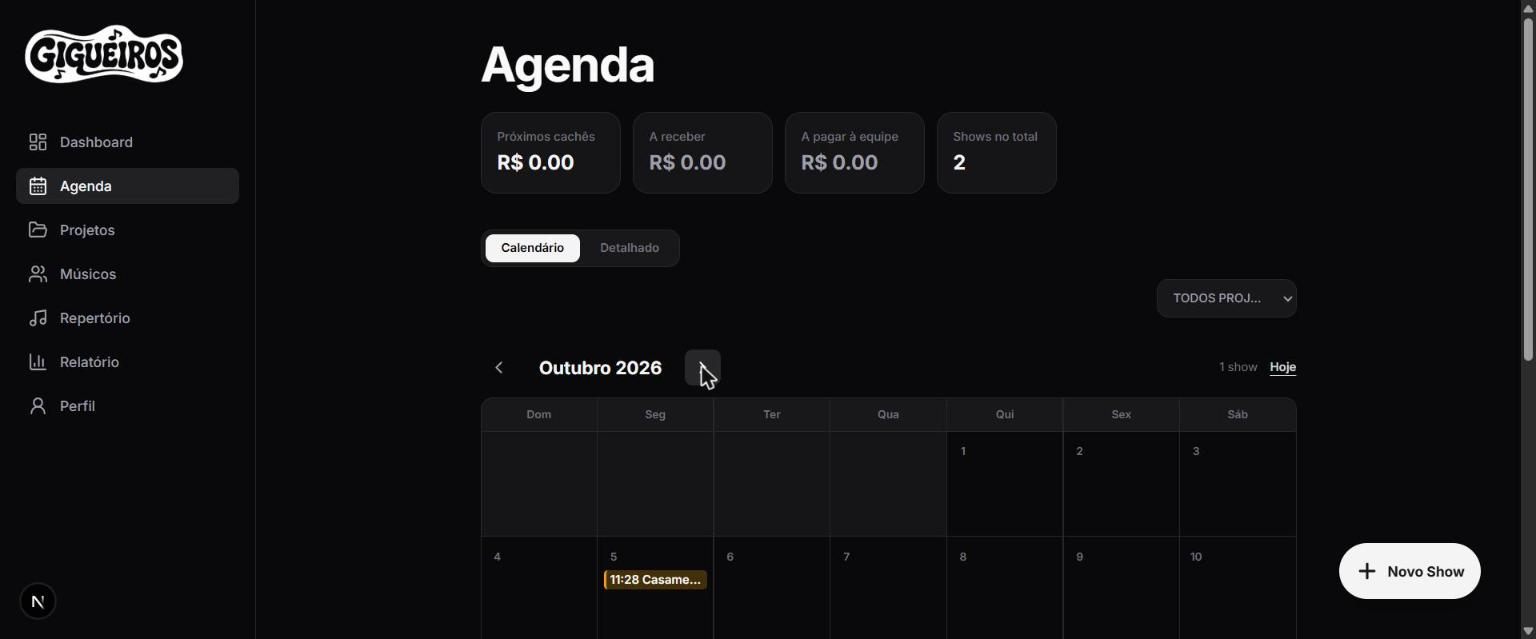
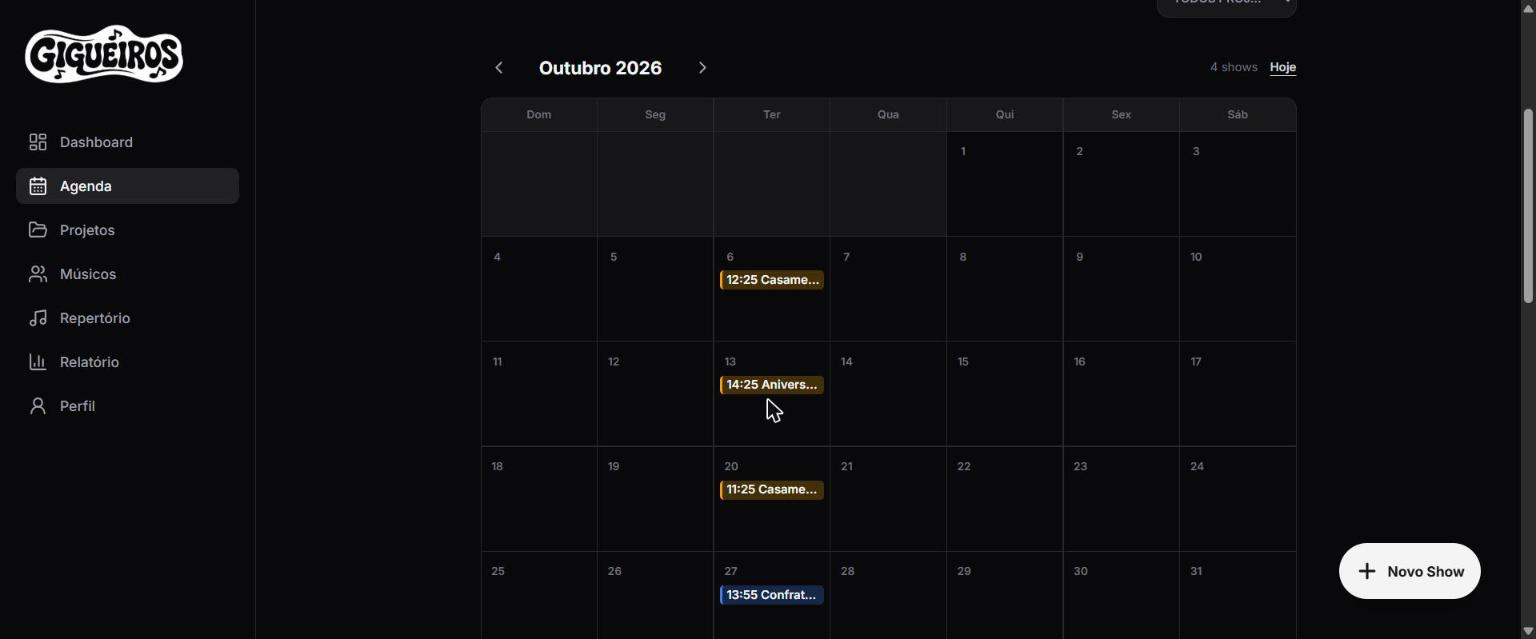
feat(lp): prints reais com molduras de dispositivo, lightbox e carrossel
- Dashboard em destaque com moldura de notebook/tablet/celular
  (componente DeviceChrome, CSS puro), mostrando responsividade e PWA.
- Qualquer print abre em tamanho grande num lightbox (clique, Esc ou
  clique fora fecha).
- Agenda, Financeiro, Repertório, Relatório e Músicos viram um carrossel
  automático com transição, que para no hover/clique e continua clicável.
- Prints recapturados com mais dados de exemplo (12 shows, 6 músicos,
  8 músicas) numa banda de teste renomeada, sem expor a conta real.

Claude-Session: https://claude.ai/code/session_01CZdo6RkE18fDUt6KDbb8QB

diff --git a/components/screenshot-lightbox.tsx b/components/screenshot-lightbox.tsx
@@ -1,0 +1,152 @@
+'use client';
+
+import { useEffect, useState } from 'react';
+import Image from 'next/image';
+import { X } from 'lucide-react';
+
+export type Shot = { src: string; alt: string; width: number; height: number; caption?: string };
+type Device = 'laptop' | 'tablet' | 'phone';
+
+/** A screenshot that opens full-size in a lightbox when clicked. Renders its own modal. */
+export function ClickableShot({
+  shot,
+  className,
+  sizes,
+  device,
+  bare,
+}: {
+  shot: Shot;
+  className?: string;
+  sizes?: string;
+  device?: Device;
+  /** Skip the default bordered frame — used inside containers that already draw their own border (e.g. the carousel). */
+  bare?: boolean;
+}) {
+  const [open, setOpen] = useState(false);
+
+  useEffect(() => {
+    if (!open) return;
+    const onKey = (e: KeyboardEvent) => e.key === 'Escape' && setOpen(false);
+    window.addEventListener('keydown', onKey);
+    return () => window.removeEventListener('keydown', onKey);
+  }, [open]);
+
+  const image = (
+    <Image src={shot.src} alt={shot.alt} width={shot.width} height={shot.height} className="h-auto w-full" sizes={sizes ?? '100vw'} />
+  );
+
+  return (
+    <>
+      <button
+        type="button"
+        onClick={() => setOpen(true)}
+        aria-label={`Ampliar: ${shot.alt}`}
+        className={`block w-full cursor-zoom-in text-left ${className ?? ''}`}
+      >
+        {device ? <DeviceChrome device={device}>{image}</DeviceChrome> : (
+          <div className={`overflow-hidden transition-opacity hover:opacity-90 ${bare ? '' : 'border-2 border-[var(--l-fg)]'}`}>{image}</div>
+        )}
+      </button>
+      {open && (
+        <div
+          role="dialog"
+          aria-modal="true"
+          aria-label={shot.alt}
+          className="fixed inset-0 z-[9999] flex items-center justify-center bg-black/90 p-4 sm:p-8"
+          onClick={() => setOpen(false)}
+        >
+          <button
+            type="button"
+            aria-label="Fechar"
+            onClick={() => setOpen(false)}
+            className="absolute right-4 top-4 rounded-full bg-white/10 p-2 text-white hover:bg-white/20"
+          >
+            <X className="h-6 w-6" />
+          </button>
+          {/* eslint-disable-next-line @next/next/no-img-element */}
+          <img src={shot.src} alt={shot.alt} className="max-h-full max-w-full object-contain" onClick={(e) => e.stopPropagation()} />
+        </div>
+      )}
+    </>
+  );
+}
+
+/** Wraps a screenshot in a simple geometric device bezel matching the landing page's line-art style. */
+function DeviceChrome({ device, children }: { device: Device; children: React.ReactNode }) {
+  if (device === 'phone') {
+    return (
+      <div className="mx-auto max-w-[220px] rounded-[2.25rem] border-[10px] border-[var(--l-fg)] bg-[var(--l-fg)] shadow-xl">
+        <div className="overflow-hidden rounded-[1.4rem]">{children}</div>
+      </div>
+    );
+  }
+  if (device === 'tablet') {
+    return (
+      <div className="mx-auto max-w-sm rounded-[1.5rem] border-[10px] border-[var(--l-fg)] bg-[var(--l-fg)] shadow-xl">
+        <div className="overflow-hidden rounded-[0.6rem]">{children}</div>
+      </div>
+    );
+  }
+  // laptop
+  return (
+    <div className="shadow-xl">
+      <div className="overflow-hidden rounded-t-lg border-2 border-b-0 border-[var(--l-fg)] bg-black p-1.5 sm:p-2">
+        <div className="overflow-hidden rounded-sm">{children}</div>
+      </div>
+      <div
+        className="h-3 border-2 border-t-0 border-[var(--l-fg)] bg-[var(--l-fg)] sm:h-4"
+        style={{ clipPath: 'polygon(4% 0, 96% 0, 100% 100%, 0% 100%)' }}
+      />
+    </div>
+  );
+}
+
+/** Auto-advancing carousel: pauses on hover, and stays paused once the viewer interacts with it. */
+export function FeatureCarousel({ shots }: { shots: (Shot & { caption: string })[] }) {
+  const [index, setIndex] = useState(0);
+  const [hovering, setHovering] = useState(false);
+  const [interacted, setInteracted] = useState(false);
+
+  useEffect(() => {
+    if (hovering || interacted) return;
+    const id = setInterval(() => setIndex((i) => (i + 1) % shots.length), 4000);
+    return () => clearInterval(id);
+  }, [hovering, interacted, shots.length]);
+
+  const stop = () => setInteracted(true);
+
+  return (
+    <div onMouseEnter={() => setHovering(true)} onMouseLeave={() => setHovering(false)} onClickCapture={stop}>
+      <div className="overflow-hidden border-2 border-[var(--l-fg)]">
+        <div
+          className="flex transition-transform duration-700 ease-[cubic-bezier(0.32,0.72,0,1)]"
+          style={{ transform: `translateX(-${index * 100}%)` }}
+        >
+          {shots.map((s) => (
+            <div key={s.src} className="w-full shrink-0">
+              <ClickableShot shot={s} bare sizes="(min-width: 640px) 70vw, 100vw" />
+            </div>
+          ))}
+        </div>
+      </div>
+      <div className="mt-4 flex items-center justify-between gap-4">
+        <p className="text-sm font-bold sm:text-base">{shots[index].caption}</p>
+        <div className="flex shrink-0 gap-2">
+          {shots.map((s, i) => (
+            <button
+              key={s.src}
+              type="button"
+              onClick={() => {
+                stop();
+                setIndex(i);
+              }}
+              aria-label={`Ver ${s.caption}`}
+              aria-current={i === index}
+              className={`h-2.5 w-2.5 rounded-full border border-[var(--l-fg)] transition-colors ${i === index ? 'bg-[var(--l-fg)]' : 'bg-transparent'}`}
+            />
+          ))}
+        </div>
+      </div>
+    </div>
+  );
+}

diff --git a/app/page.tsx b/app/page.tsx
@@ -1,8 +1,8 @@
 import Link from 'next/link';
-import Image from 'next/image';
 import type { Metadata } from 'next';
 import { Logo } from '@/components/logo';
 import { Setlist } from '@/components/landing-setlist';
+import { ClickableShot, FeatureCarousel, type Shot } from '@/components/screenshot-lightbox';
 import { createAdminClient } from '@/lib/supabase/admin';
 
 export const revalidate = 3600;
@@ -42,10 +42,16 @@ const features = [
   },
 ];
 
-const screenshots = [
-  { src: '/screenshots/agenda.jpg', alt: 'Agenda de shows do Gigueiros, com o calendário do mês e um show marcado', caption: 'Agenda' },
-  { src: '/screenshots/financeiro.jpg', alt: 'Tela de um show no Gigueiros mostrando cachê bruto, custos e lucro líquido', caption: 'Financeiro de cada show' },
-  { src: '/screenshots/repertorio.jpg', alt: 'Catálogo de músicas do repertório no Gigueiros', caption: 'Repertório' },
+const dashboardDesktop: Shot = { src: '/screenshots/dashboard-desktop.jpg', alt: 'Dashboard do Gigueiros no computador, com próximo show e gráficos financeiros', width: 1568, height: 652 };
+const dashboardTablet: Shot = { src: '/screenshots/dashboard-tablet.png', alt: 'Dashboard do Gigueiros aberto em um tablet', width: 1004, height: 771 };
+const dashboardMobile: Shot = { src: '/screenshots/dashboard-mobile.png', alt: 'Dashboard do Gigueiros aberto no celular, com navegação inferior de app', width: 478, height: 771 };
+
+const featureShots: (Shot & { caption: string })[] = [
+  { src: '/screenshots/agenda.jpg', alt: 'Agenda de shows do Gigueiros, com o calendário do mês e vários shows marcados', width: 1536, height: 639, caption: 'Agenda' },
+  { src: '/screenshots/financeiro.jpg', alt: 'Tela de um show no Gigueiros mostrando cachê bruto, custos e lucro líquido', width: 1536, height: 639, caption: 'Financeiro de cada show' },
+  { src: '/screenshots/repertorio.jpg', alt: 'Catálogo de músicas do repertório no Gigueiros', width: 1536, height: 639, caption: 'Repertório' },
+  { src: '/screenshots/relatorio.jpg', alt: 'Relatório financeiro mensal do Gigueiros, com faturamento, custos e lucro', width: 1536, height: 639, caption: 'Relatório financeiro' },
+  { src: '/screenshots/musicos.jpg', alt: 'Lista de músicos do banco de talentos no Gigueiros', width: 1536, height: 639, caption: 'Músicos' },
 ];
 
 const adminSees = [
@@ -129,15 +135,21 @@ export default async function Landing() {
         <section className="border-t-2 border-[var(--l-fg)]">
           <div className="mx-auto w-full max-w-6xl px-5 py-20 sm:px-8 lg:py-28">
             <h2 className="max-w-2xl text-balance text-3xl font-black tracking-[-0.03em] sm:text-5xl">
-              O app de verdade, sem mockup.
+              O app de verdade, sem enrolação.
             </h2>
-            <div className="mt-12 grid gap-6 sm:grid-cols-3">
-              {screenshots.map((s) => (
-                <figure key={s.src} className="overflow-hidden border-2 border-[var(--l-fg)]">
-                  <Image src={s.src} alt={s.alt} width={1536} height={639} className="h-auto w-full" sizes="(min-width: 640px) 33vw, 100vw" />
-                  <figcaption className="border-t-2 border-[var(--l-fg)] px-4 py-3 text-sm font-bold">{s.caption}</figcaption>
-                </figure>
-              ))}
+            <p className="mt-3 max-w-xl text-base text-[var(--l-mute)] sm:text-lg">Clique em qualquer print para ver em tamanho grande.</p>
+
+            <div className="mt-12 grid gap-8 lg:grid-cols-[2fr_1fr_0.75fr] lg:items-end lg:gap-6">
+              <ClickableShot shot={dashboardDesktop} device="laptop" sizes="(min-width: 1024px) 50vw, 100vw" />
+              <ClickableShot shot={dashboardTablet} device="tablet" sizes="(min-width: 1024px) 20vw, 60vw" />
+              <ClickableShot shot={dashboardMobile} device="phone" sizes="(min-width: 1024px) 14vw, 45vw" />
+            </div>
+            <p className="mt-4 text-sm text-[var(--l-mute)] sm:text-base">
+              Computador, tablet ou celular: o mesmo app, sempre com você. Funciona como PWA — instala na tela inicial e abre igual um aplicativo nativo.
+            </p>
+
+            <div className="mt-16 max-w-3xl">
+              <FeatureCarousel shots={featureShots} />
             </div>
           </div>
         </section>

diff --git a/DOCUMENTATION.md b/DOCUMENTATION.md
@@ -377,3 +377,9 @@ Ver `docs/PLANO-UNIFICADO.md`. Estado após a Fase 0:
 ## 23. Grupo do WhatsApp dos Fundadores
 - `FOUNDER_WHATSAPP_URL` (env var, vazia por padrão): link de convite do grupo exclusivo.
 - Quando a banda tem `subscriptions.price_plan = 'founder'` e a env var está preenchida, o Perfil (seção "Gestão da banda") mostra um card com o link. Sem env var configurada, nada aparece — sem depender de e-mail (Resend ainda não existe).
+
+## 24. Prints reais, lightbox e carrossel na Landing Page
+- Seção "O app de verdade, sem enrolação": Dashboard em destaque com moldura de dispositivo (notebook maior, tablet e celular ao lado), mostrando responsividade e o esquema de PWA. Componente `DeviceChrome` em `components/screenshot-lightbox.tsx` desenha as molduras com CSS puro (sem imagens de bezel).
+- Qualquer print é clicável e abre em tamanho grande num lightbox (`ClickableShot`, com Esc/clique fora pra fechar).
+- Abaixo, `FeatureCarousel` (mesmo arquivo) alterna automaticamente entre Agenda, Financeiro, Repertório, Relatório e Músicos a cada 4s, com transição de slide; para no hover e para permanentemente após qualquer clique (inclusive nos indicadores), continuando clicável pro lightbox.
+- Os prints ficam em `public/screenshots/` (dashboard-desktop/tablet/mobile, agenda, repertorio, financeiro, relatorio, musicos) — capturados com dados fictícios numa banda de teste renomeada, para não expor identidade da conta nem dados reais.
